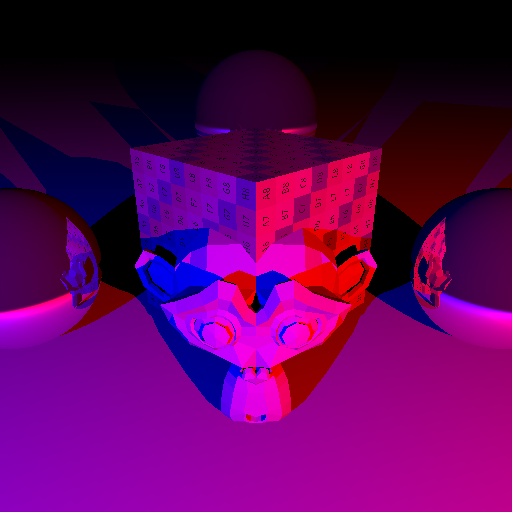
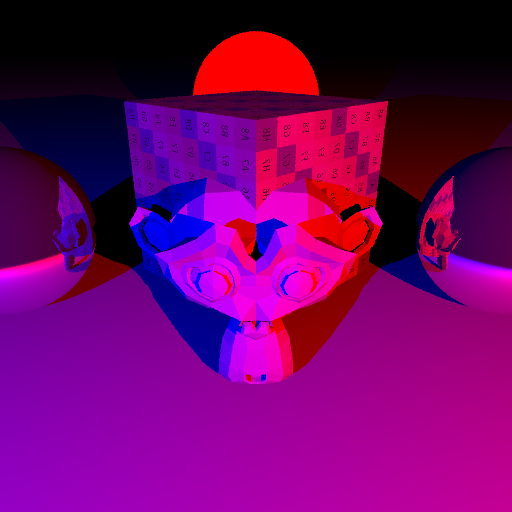
Added naive multi sampling for antialiasing

diff --git a/src/raytracer.cpp b/src/raytracer.cpp
@@ -149,7 +149,8 @@ namespace cg {
             int32_t width,
             int32_t height,
             int32_t channels,
-            float max_raycast_distance) {
+            float max_raycast_distance,
+            int samples_per_pixel) {
 
         // prepass renderers
         for (const std::shared_ptr <cg::renderer> &renderer: scene.GetRenderers()) {
@@ -166,42 +167,54 @@ namespace cg {
         // from clip space to world space
         glm::mat4x4 vpi = glm::inverse(vp);
 
+        glm::vec2 texel_size{1.f / (float)width, 1.f / (float)height};
         for (int i = 0; i < total_pixels; i++) {
             int x = i % width;
             int y = i / width;
 
-            float xf = -1.f + ((float) x / (float) (width - 1)) * 2.f;
-            float yf = 1.f - ((float) y / (float) (height - 1)) * 2.f;
-
-            glm::vec4 destNear = vpi * glm::vec4(xf, yf, -1.f, 1.f);
-            destNear.x /= destNear.w;
-            destNear.y /= destNear.w;
-            destNear.z /= destNear.w;
-
-            glm::vec4 destFar = vpi * glm::vec4(xf, yf, 1.f, 1.f);
-            destFar.x /= destFar.w;
-            destFar.y /= destFar.w;
-            destFar.z /= destFar.w;
-
-            glm::vec3 direction = glm::normalize(glm::vec3(destFar) - glm::vec3(destNear));
-            cg::ray ray{destNear, direction};
-
-            // raycast
             glm::vec4 accumulated_color{};
-            glm::vec3 intersection{};
-            glm::vec3 normal{};
-            glm::vec2 uv{};
-            const int max_bounces = 3;
 
-            Raycast(ray, scene, accumulated_color, intersection, normal, uv, 0, max_bounces, max_raycast_distance);
+            for(int j = 0; j < samples_per_pixel; j++) {
+                glm::vec2 sample_position {
+                        -1.f + ((float) x / (float) (width - 1)) * 2.f,
+                        1.f - ((float) y / (float) (height - 1)) * 2.f
+                };
 
-            accumulated_color = glm::clamp(accumulated_color, 0.f, 1.f);
+                // Apply random sampling
+                if(samples_per_pixel > 1)
+                    sample_position += RandomPositionInsideUnitDisc() * texel_size;
+
+                glm::vec4 destNear = vpi * glm::vec4(sample_position.x, sample_position.y, -1.f, 1.f);
+                destNear.x /= destNear.w;
+                destNear.y /= destNear.w;
+                destNear.z /= destNear.w;
+
+                glm::vec4 destFar = vpi * glm::vec4(sample_position.x, sample_position.y, 1.f, 1.f);
+                destFar.x /= destFar.w;
+                destFar.y /= destFar.w;
+                destFar.z /= destFar.w;
+
+                glm::vec3 direction = glm::normalize(glm::vec3(destFar) - glm::vec3(destNear));
+                cg::ray ray{destNear, direction};
+
+                // raycast
+                glm::vec3 intersection{};
+                glm::vec3 normal{};
+                glm::vec2 uv{};
+                const int max_bounces = 3;
+
+                Raycast(ray, scene, accumulated_color, intersection, normal, uv, 0, max_bounces, max_raycast_distance);
+            }
+
+            // Average by samples
+            accumulated_color /= (float)samples_per_pixel;
 
             // gamma correction
             float const gamma = 1.f / 2.2f;
             accumulated_color = glm::pow(accumulated_color, {gamma, gamma, gamma, gamma});
-            const int j = (y * width + x) * channels;
+            accumulated_color = glm::clamp(accumulated_color, 0.f, 1.f);
 
+            const int j = (y * width + x) * channels;
             output_data[j + 0] = accumulated_color.x * 255;
             output_data[j + 1] = accumulated_color.y * 255;
             output_data[j + 2] = accumulated_color.z * 255;

diff --git a/src/main.cpp b/src/main.cpp
@@ -84,8 +84,6 @@ int main() {
                               glm::vec3(0, 0, 0),
                               glm::vec3(1, 1, 1)});
 
-
-
     cg::scene scene_{};
 
     scene_.AddRenderer(std::make_shared<cg::plane_renderer>(plane));
@@ -166,7 +164,7 @@ int main() {
     const int32_t height = 512;
 
     cg::camera camera_{};
-    camera_.SetPosition(glm::vec3(-0.f, 0.5f, -1.0f));
+    camera_.SetPosition(glm::vec3(-0.f, 0.25f, -0.5f));
     camera_.SetRotation(glm::vec3(25.0f, 0.0f, 0.0f));
     camera_.SetAspectRatio((float)width / (float)height);
     camera_.SetNearClipPlane(0.1f);
@@ -180,7 +178,7 @@ int main() {
     cg::raytracer raytracer{};
 
     auto start = std::chrono::high_resolution_clock::now();
-    raytracer.RaycastCamera(scene_, camera_, output_data, width, height, channel_count);
+    raytracer.RaycastCamera(scene_, camera_, output_data, width, height, channel_count, 10.f, 4);
     auto stop = std::chrono::high_resolution_clock::now();
     auto duration = duration_cast<std::chrono::seconds>(stop - start);
     std::cout << "rendering took: " << duration.count() << "s" << std::endl;

diff --git a/src/include/random.h b/src/include/random.h
@@ -1,0 +1,35 @@
+//
+// Created by Jaroslav Stehlik on 24.05.2024.
+//
+
+#pragma once
+#include <cstdlib>
+#include "glm/glm.hpp"
+#include "glm/vec3.hpp"
+
+namespace cg {
+    inline float RandomFloat() {
+        return (float)std::rand() / (float)RAND_MAX;
+    }
+
+    inline float RandomFloat(float min, float max) {
+        return min + RandomFloat() * (max - min);
+    }
+
+    // TODO: this is inefficient due to normalization
+    inline glm::vec3 RandomDirection() {
+        return glm::normalize(glm::vec3 {
+            RandomFloat(-1.f, 1.f), RandomFloat(-1.f, 1.f), RandomFloat(-1.f, 1.f)
+        });
+    }
+
+    // TODO: this is inefficient due to square root and normalization
+    inline glm::vec3 RandomPositionInsideUnitSphere() {
+        return RandomDirection() * sqrt(RandomFloat());
+    }
+
+    // TODO: this is inefficient due to square root and normalization
+    inline glm::vec2 RandomPositionInsideUnitDisc() {
+        return glm::normalize(glm::vec2{RandomFloat(-1.f, 1.f), RandomFloat(-1.f, 1.f)}) * sqrt(RandomFloat());
+    }
+}

diff --git a/src/raytracer.h b/src/raytracer.h
@@ -4,6 +4,7 @@
 
 #pragma once
 #include <locale>
+#include "random.h"
 
 #define GLM_ENABLE_EXPERIMENTAL
 #include "glm/vec3.hpp"
@@ -39,6 +40,7 @@ namespace cg {
                            int width,
                            int height,
                            int channels,
-                           float max_raycast_distance = 10.f);
+                           float max_raycast_distance = 10.f,
+                           int samples_per_pixel = 1);
     };
 }
